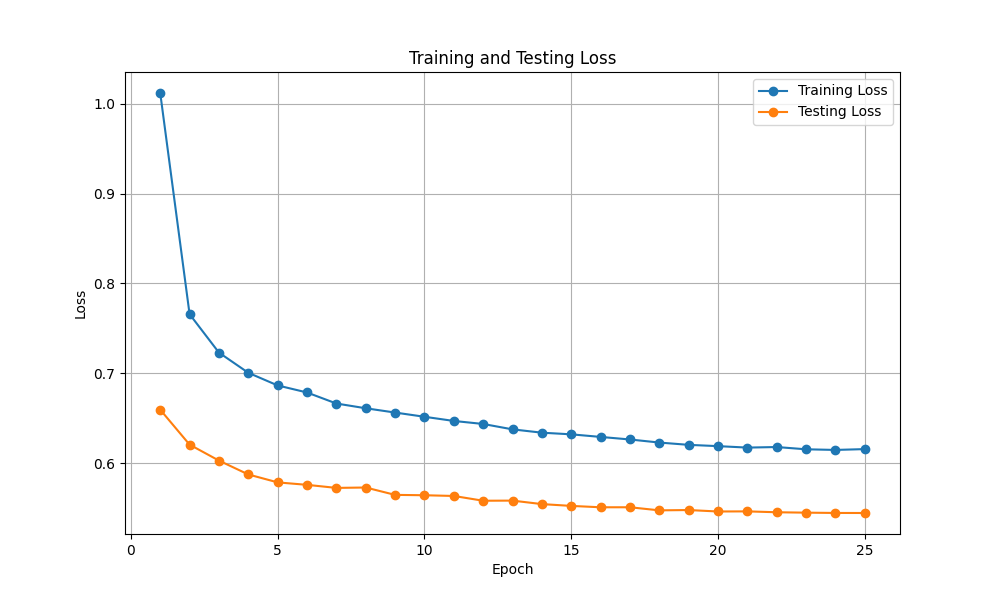
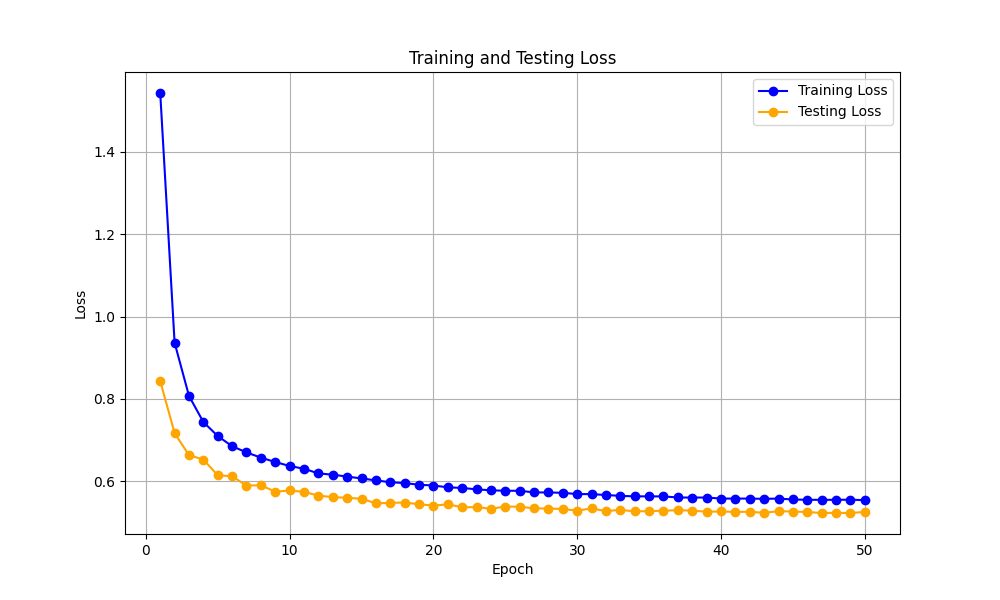
ADD patching asking

diff --git a/mlp_mnist_detection/model.py b/mlp_mnist_detection/model.py
@@ -4,16 +4,24 @@ import torch.nn as nn
 
 # note nn.Conv2d is used to generate image patch, not to implement a traditional convolutional nerual network
 class Patch_rizer(nn.Module):
-    def __init__(self, in_channels, images_size, patches_size, dim):
+    def __init__(self, in_channels, images_size, patches_size, dim, masking_ratio=0.08):
         super().__init__() 
         if images_size % patches_size != 0:
             raise ValueError("error: images_size must be divisible by patches_size!")
         self.patch = nn.Conv2d(in_channels, dim, patches_size, patches_size)
         self.reshape = Rearrange('b c h w -> b (h w) c')
+        self.masking_ratio = masking_ratio
 
     def forward(self, x: torch.Tensor) -> torch.Tensor:
         x = self.patch(x)       # [B, dim, H/p, W/p]
         x = self.reshape(x)    # flatten the patches [B, num_patches, dim]
+        if self.training:
+            # print("masking")
+            B, N, D = x.shape
+            mask = torch.rand(B, N, 1, device=x.device) > self.masking_ratio
+            x = x * mask.float()
+        # else:
+        #     print("testing, no mask")
         return x
 
 class Affine(nn.Module):
@@ -43,7 +51,7 @@ class Mlp_block(nn.Module):
         return x
 
 class ResMLP_block(nn.Module):
-    def __init__(self, dim, images_size, patches_size, layerscale_init=1.0):
+    def __init__(self, dim, images_size, patches_size, dropout, layerscale_init=1.0, masking=False):
         super().__init__()
         num_patches = (images_size // patches_size) * (images_size // patches_size)
         self.cross_patch_sublayer = nn.Sequential(
@@ -56,11 +64,13 @@ class ResMLP_block(nn.Module):
 
         self.layerscale_1 = nn.Parameter(layerscale_init * torch.ones((dim))) # LayerScale
         self.layerscale_2 = nn.Parameter(layerscale_init * torch.ones((dim))) # parameters
-        self.cross_channel_sublayer = Mlp_block(dim)
+        self.cross_channel_sublayer = Mlp_block(dim, dropout=dropout)
 
     def forward(self, x):
+        # res_1 = self.cross_patch_sublayer(x)
         res_1 = self.cross_patch_sublayer(x)
         x = x + self.layerscale_1 * res_1
+        # res_2 = self.cross_channel_sublayer(x)
         res_2 = self.cross_channel_sublayer(x)
         x = x + self.layerscale_2 * res_2
         return x
@@ -69,13 +79,13 @@ class ResMLP(nn.Module):
     '''
     the version of model checkpoint
     '''
-    def __init__(self, depth=3, in_channels=3, dim=200, images_size=28, patches_size=4, num_classes=10):
+    def __init__(self, depth=3, in_channels=3, dim=200, images_size=28, patches_size=4, dropout=0.2, num_classes=10, masking_ratio=0.08):
         super().__init__()
         assert images_size % patches_size == 0
-        self.patch_rizer = Patch_rizer(in_channels, images_size, patches_size, dim)
+        self.patch_rizer = Patch_rizer(in_channels, images_size, patches_size, dim, masking_ratio)
         self.blocks = nn.ModuleList(
             [
-                ResMLP_block(dim, images_size, patches_size) for i in range(depth)               
+                ResMLP_block(dim, images_size, patches_size, dropout, masking_ratio) for i in range(depth)               
             ] 
         )
         self.linear_head = nn.Linear(dim, num_classes)

diff --git a/mlp_mnist_detection/main.py b/mlp_mnist_detection/main.py
@@ -32,10 +32,11 @@ def seed_worker(worker_id):
 
 # hyper params settings
 BATCH_SIZE = 128
-EPOCHS = 25
-HIDDEN_DIM = 128
+EPOCHS = 50
+HIDDEN_DIM = 300
 NUM_BLOCKS = 3
-DROPOUT = 0.3
+MASKING_RATIO = 0.08
+DROPOUT = 0.2
 LR = 1e-3
 WEIGHT_DECAY = 1e-4
 LABEL_SMOOTHING = 0.1
@@ -103,7 +104,7 @@ if __name__ == "__main__":
     test_set = datasets.MNIST(root='./data', train=False, download=True, transform=test_transform)
     print(f"testing data shape {test_set.data.shape}")
 
-    model = ResMLP(depth=4, in_channels=1, dim=380, images_size=train_set.data.shape[1], patches_size=4, num_classes=10)
+    model = ResMLP(depth=NUM_BLOCKS, in_channels=1, dim=HIDDEN_DIM, images_size=train_set.data.shape[1], patches_size=4, dropout=DROPOUT, num_classes=10, masking_ratio=MASKING_RATIO)
     model.to(device)
 
     optimizer = optim.AdamW(model.parameters(), lr=LR, weight_decay=WEIGHT_DECAY)
@@ -112,8 +113,8 @@ if __name__ == "__main__":
     scheduler = optim.lr_scheduler.CosineAnnealingLR(optimizer, T_max=EPOCHS)
 
     best_acc = 0.0
-    train_losses = []
     test_losses = []
+    train_losses = []
     for epoch in range(EPOCHS):
         
         # training
@@ -138,9 +139,9 @@ if __name__ == "__main__":
             pbar.set_postfix({'Loss': f"{train_loss/(total/BATCH_SIZE):.3f}", 
                          'Acc': f"{100.*correct/total:.2f}%"})
         
-        print(train_loss/len(train_loader))
-        train_losses.append(train_loss)
-
+        avg_train_loss = train_loss / len(train_loader)
+        train_losses.append(avg_train_loss)
+        
         # testing
         model.eval()
         test_loss = 0

diff --git a/mlp_mnist_detection/REAMDE.md b/mlp_mnist_detection/REAMDE.md
@@ -1,12 +1,17 @@
-### ResMLP Mnist Report, Wei Pan (潘炜)
+### ResMLP with Patching masking Report[Wei Pan(潘炜)]
 > to reproduce the result, please refer to [here](./Experiment.md)
 
-I will implement ResMLP, which means MLP with residual learning proposed at Meta's paper [ResMLP](https://arxiv.org/abs/2105.03404). By the way, resnet is simple and beautiful. Also thanks to Kaiming He's Resnet [Paper](https://arxiv.org/abs/1512.03385).  And I implement a simple MLP baseline. It get  
-0.55 % accuracy increse then the MLP baseline.
-because `.ipynb` or jupyter notebook is so slow and inefficient. I will use `.py` to implement the model.
-
-### Accuracy in MLP with Resiual
-get bese accuracy of `99.30%
+I will implement ResMLP with patch masking, which means MLP with residual connection proposed on Meta's paper [ResMLP].  (https://arxiv.org/abs/2105.03404). Additionally, I added patches masking to increase the model's robustness. By the way, resnet is simple and beautiful. Also thanks to Kaiming He's Resnet [Paper](https://arxiv.org/abs/1512.03385).  And I implement a simple MLP baseline. Below are results and implementation details. 
+### Result
+| Model                     | accuracy (%) |
+|--------------------------|----------|
+| MLP  baseline                   | 98.85    |
+| **ResMLP**                  | 99.30    |
+| **ResMLP with Patch Masking** | 99.41    |
+### MLP with Resiual
+hyperparameter settings
+![alt text](image-3.png)
+get bese accuracy of `99.41%`
 ![alt text](loss_curve.png)
 ![alt text](image-2.png)
 #### key network design of ResMLP
@@ -14,6 +19,8 @@ get bese accuracy of `99.30%
 - using Affine transforme to replace layer normalization
 implementation
 - use token-mixing and channel0mixing to capture the global information.
+
+And the  I also add **patch masking**, get a higher accuracy of 99.36
 
 ```
 # note nn.Conv2d is used to generate image patch, not to implement a traditional convolutional nerual network

diff --git a/mlp_mnist_detection/Experiment.md b/mlp_mnist_detection/Experiment.md
@@ -9,12 +9,13 @@ conda create -n clearlab_oc python=3.10 -y
 conda activate clearlab_oc
 pip install -r requirements.txt
 ```
-### reproduce Resmlp 
+### reproduce Resmlp with patch masking
+I will use `.py` to implement the model because `.ipynb` is extremely slow 
 ```
 cd mlp_mnist_detection
 python3 main.py
 ```
-### reproduce 
+### reproduce mlp baseline
 ```
 cd mlp_mnist_detection
 python3 baseline.py
